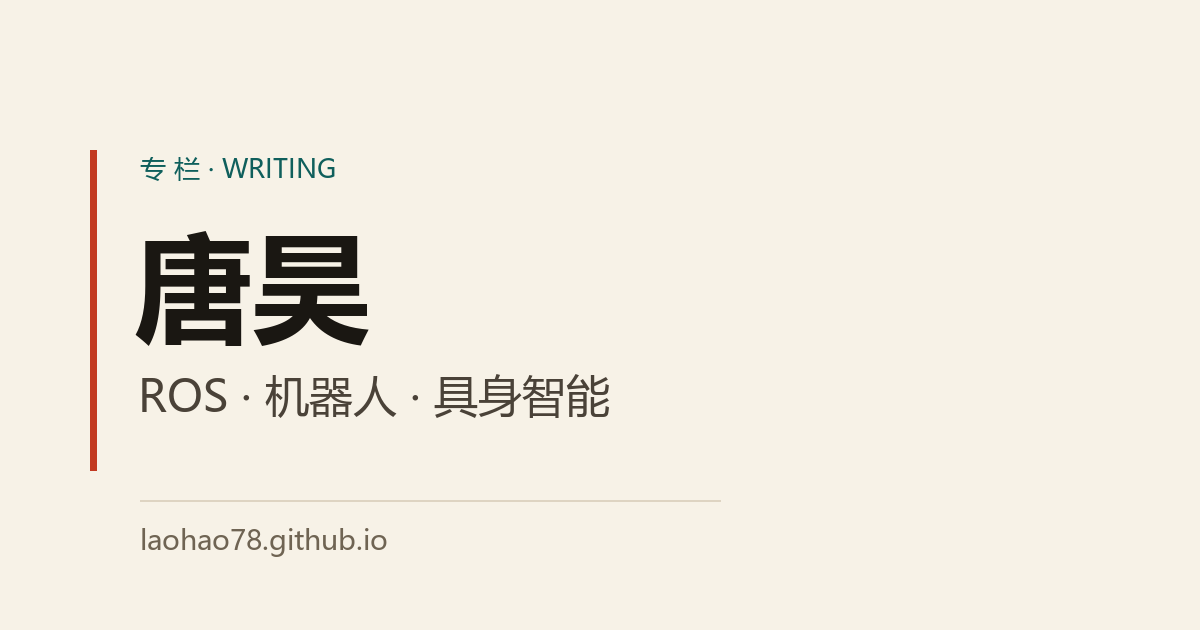
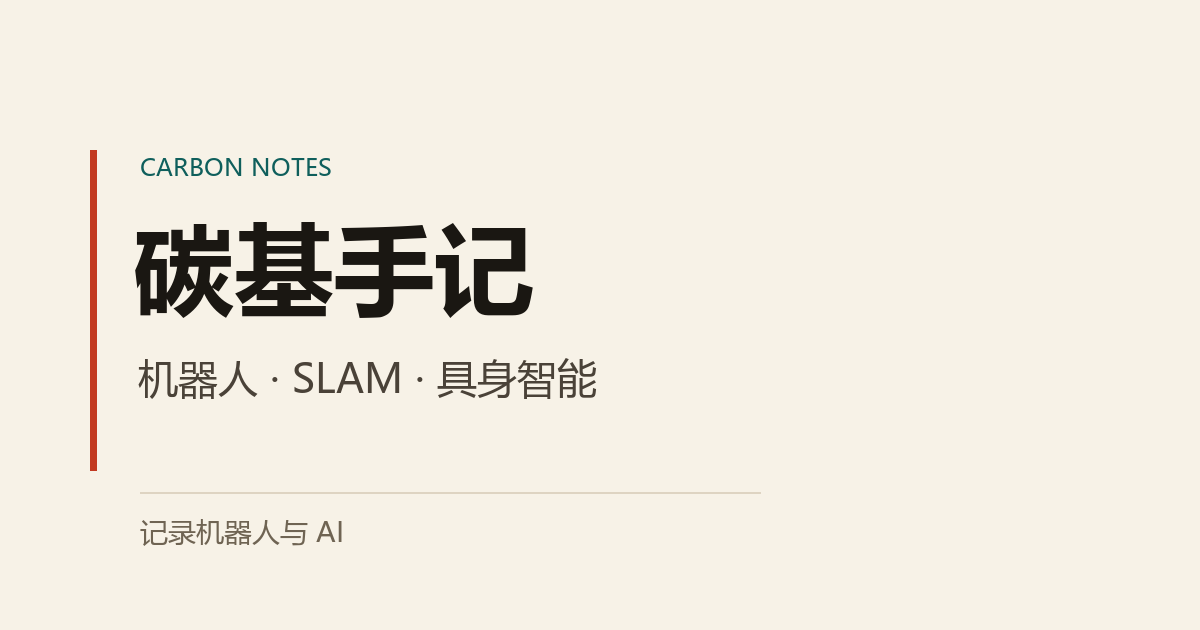
feat: 品牌定为「碳基手记」并更换碳六元环图标
- 站名/标题/页脚/作者统一为「碳基手记」
- 首页 H1 改为品牌名
- avatar.svg 改为碳晶格六元环标识
- 分享图同步为新品牌与新配色

diff --git a/index.html b/index.html
@@ -8,7 +8,7 @@ title: 首页
   <section class="home-intro">
     <div>
       <p class="home-kicker">ROS · 机械臂 · 自主导航 · 具身智能</p>
-      <h1 class="home-greeting">唐昊</h1>
+      <h1 class="home-greeting">碳基手记</h1>
       <p class="home-subtitle">记录机器人系统、具身智能项目，以及 AI 时代的技术判断。</p>
     </div>
     <div class="home-actions">
